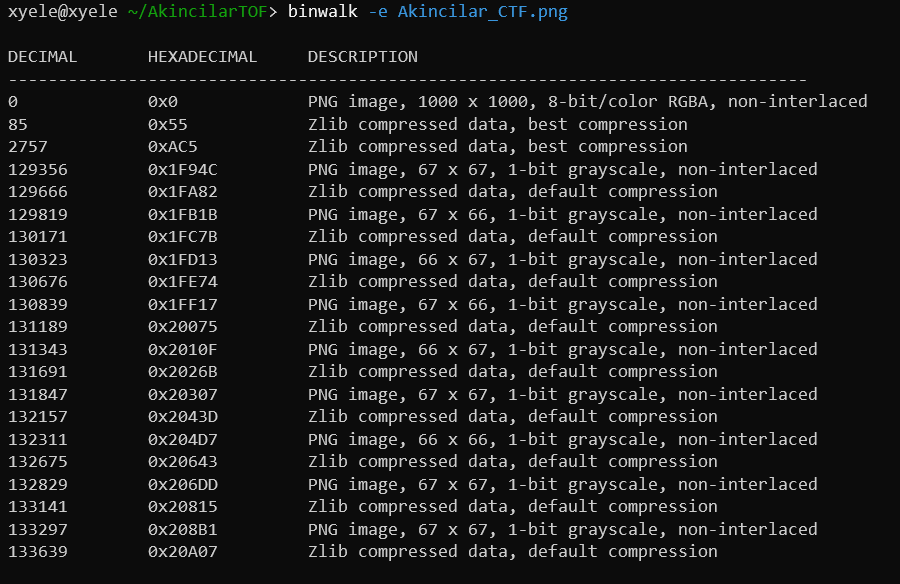
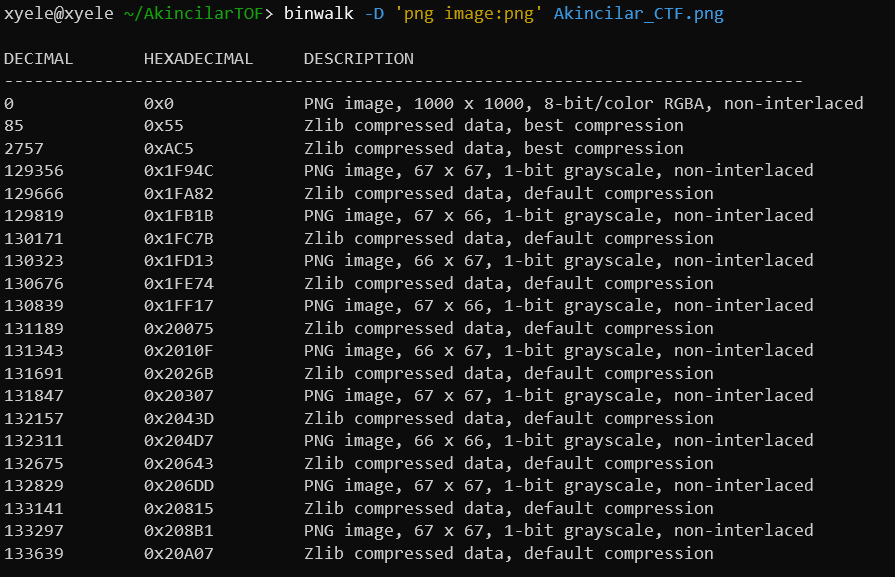
commit

diff --git a/Akıncılar TOF/FORENSIC/YIYORSA FIZIKSEL ADRESINI VER/README.md b/Akıncılar TOF/FORENSIC/YIYORSA FIZIKSEL ADRESINI VER/README.md
@@ -1,3 +1,18 @@
 # YIYORSA FIZIKSEL ADRESINI VER
-Verilen `Akincilar.png.zip` dosyasını extract ettim ve png dosyasına ulaştım. Ardından png dosyasının içerisine başka png dosyaları sıkıştırıldığını farkettim. Binwalk aracının `-e` parametresi ile bu dosyaları çıkardım.
+Verilen `Akincilar.png.zip` dosyasını extract ettim ve png dosyasına ulaştım. Ardından png dosyasının içerisine başka png dosyaları sıkıştırıldığını farkettim. Sonrasında `binwalk -D 'png image:png' Akincilar_CTF.png` komutu ile bu dosyaları extract ettim.
 ![](1.png)
+Ve png dosyasının içerisinden çıkardığım bu png dosyalarının 9 parçaya bölünmüş bir qr code olduğunu farkettikten sonra paint yardımı ile bu görselleri birleştirdim.
+![](2.png)
+![](3.png)
+Sonrasında [bu bağlantı](https://online-barcode-reader.inliteresearch.com/)yı kullanarak qr dosyasının içeriğindeki linki elde ettim.
+![](4.png)
+QR ile verilen yadi.sk linkiden `image.ad1` dosyasını indirdim. `FTK Imager` aracını kullanarak bu dosyayı görüntülediğimde içeriğinde `Bul_Maci_Al_Flagi` isminde bir lnk dosyası vardı.
+![](5.png)
+Bu dosyayı elde ettikten sonra sonraki adımı bulmam gerçekten uzun sürdü. Lnk dosyasından MAC adresini bulmaya yarıyan birkaç araç buldum ancak ücretliydi. Ardından [lifer](https://github.com/Paul-Tew/lifer) aracını keşfettim.
+![](6.png)
+Ve çıktının ardından mac adresini flage girdim ve başarılı oldum!
+
+Flag
+```
+D0:E1:40:99:8E:F7
+```
